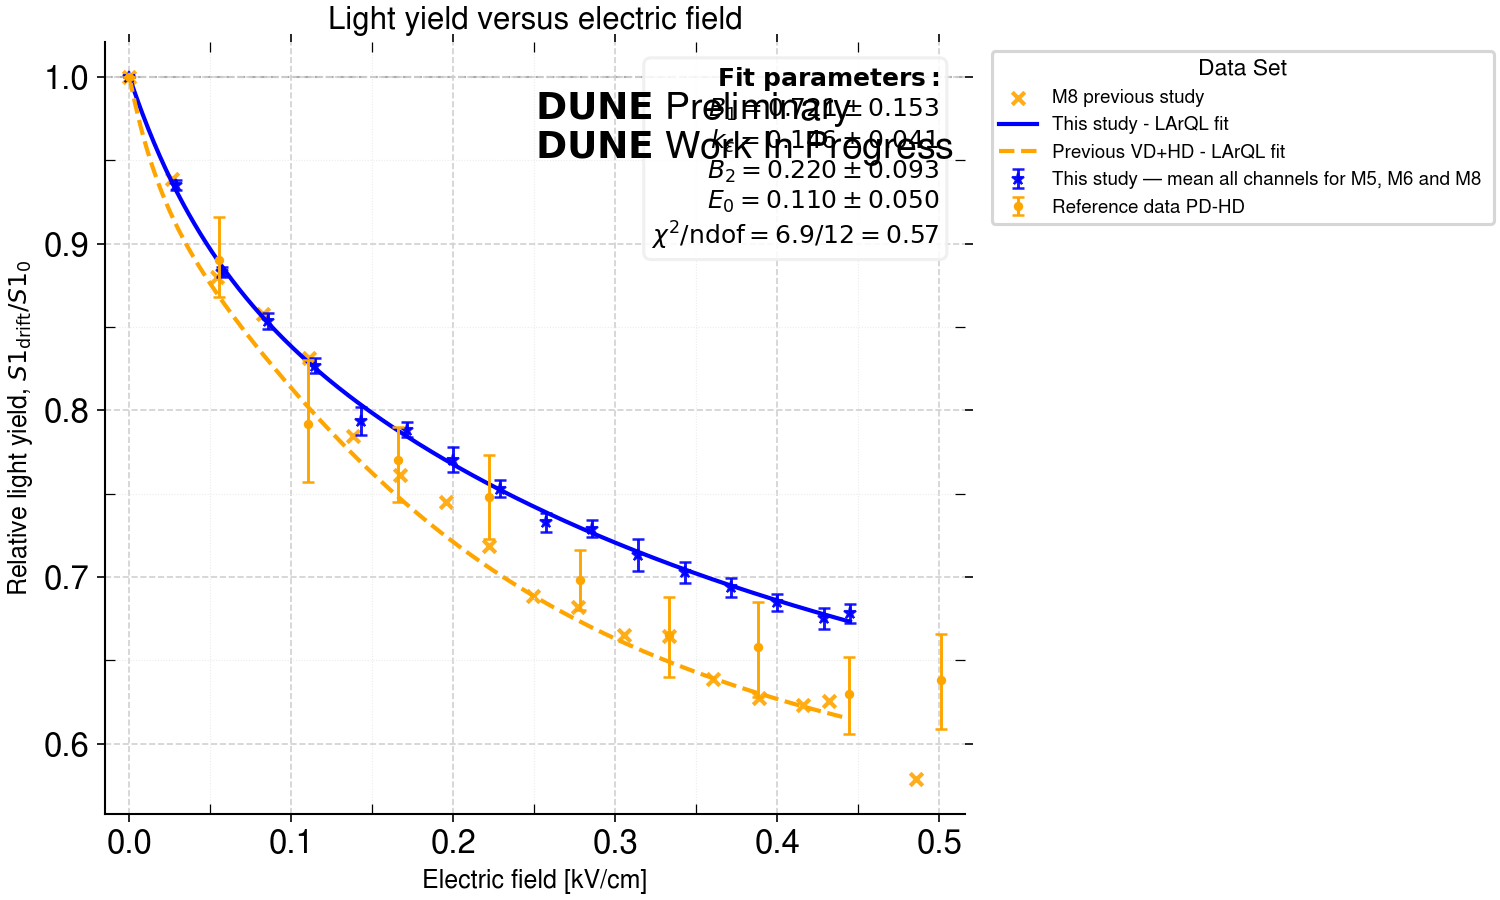
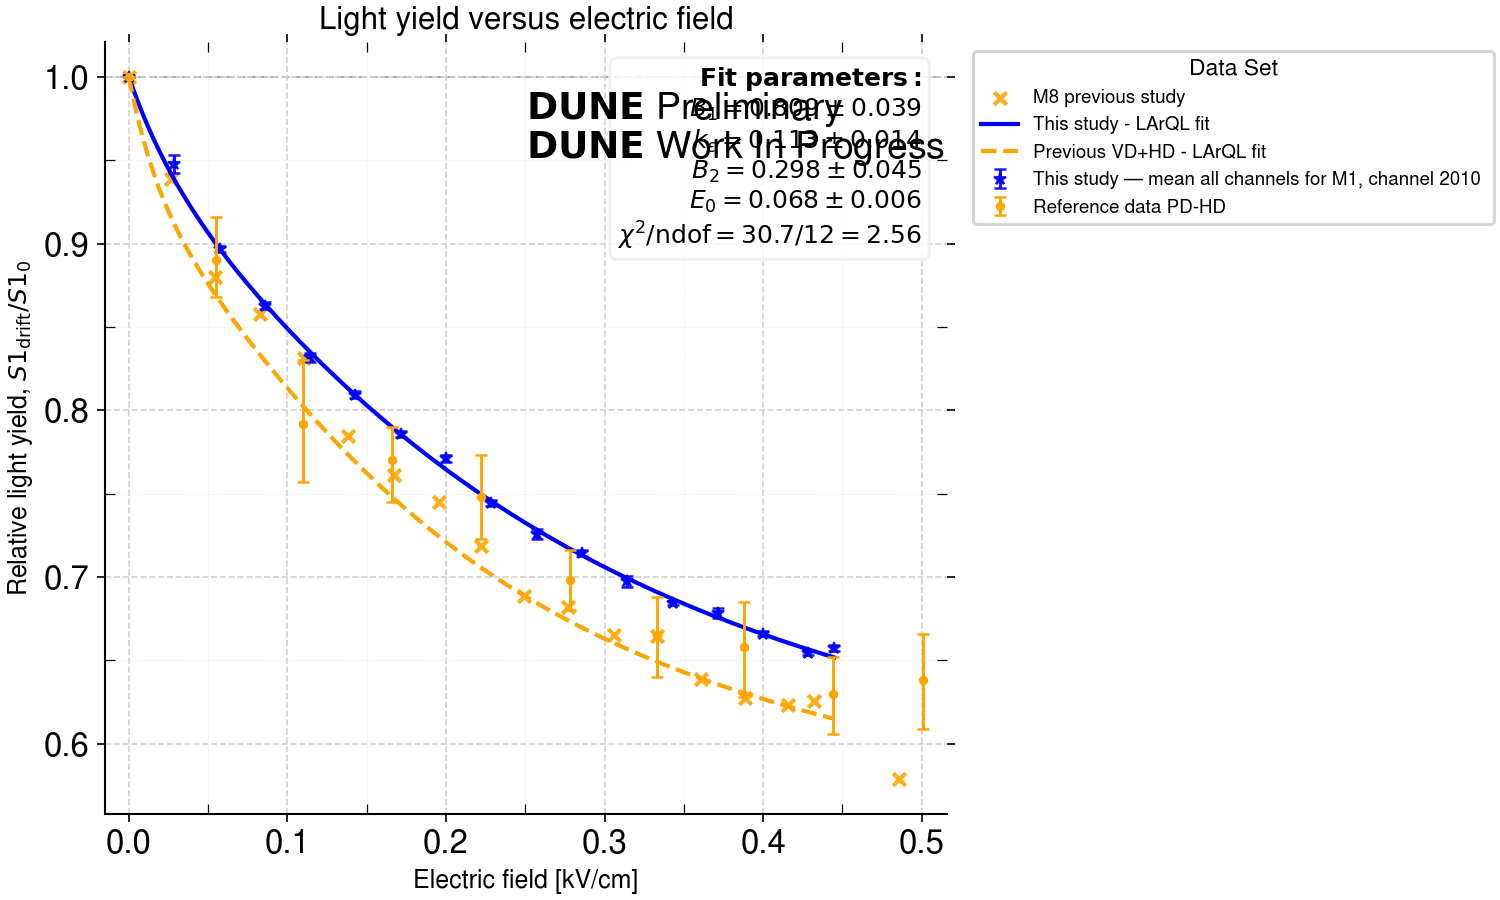
[EDIT] plot_wfs_coincidence allows now to choose how many peak candidates should be considered in the signal region, default remains 1.

diff --git a/coincidence/plot_wfs_coincidence.cpp b/coincidence/plot_wfs_coincidence.cpp
@@ -34,6 +34,7 @@ namespace fs = std::filesystem;
 namespace {
 
 constexpr double DEFAULT_MAX_AUXILIARY_AMPLITUDE = 500.0;
+constexpr std::size_t DEFAULT_MAX_PEAKS_SIGNAL_REGION = 1;
 constexpr double MAX_FULL_RANGE_AMPLITUDE = 9000.0;
 constexpr int MAX_WAVEFORM_DENSITY_Y_BINS = 2000;
 const std::array<std::string, 3> DEFAULT_RUNS{"039510", "039511", "039512"};
@@ -48,6 +49,7 @@ struct Options {
     fs::path csv_file;
     std::string csv_suffix = DEFAULT_CSV_SUFFIX;
     double max_auxiliary_amplitude = DEFAULT_MAX_AUXILIARY_AMPLITUDE;
+    std::size_t max_peaks_signal_region = DEFAULT_MAX_PEAKS_SIGNAL_REGION;
 };
 
 struct WaveformKey {
@@ -158,6 +160,8 @@ void printUsage(const char *program)
         << "  --csv-suffix SUFFIX          Selection CSV filename suffix\n"
         << "  --max-auxiliary-amplitude N  Absolute |ADC - baseline| limit in noise/"
         << "post-signal regions (default: 500)\n"
+        << "  --max-peaks-signal-region N  Maximum peak candidates allowed in the "
+        << "signal region (default: 1)\n"
         << "  -h, --help                    Show this help\n";
 }
 
@@ -176,13 +180,29 @@ Options parseOptions(int argc, char **argv, const fs::path &program_dir)
         if (argument == "--config" || argument == "--output-dir"
             || argument == "--csv"
             || argument == "--csv-suffix"
-            || argument == "--max-auxiliary-amplitude") {
+            || argument == "--max-auxiliary-amplitude"
+            || argument == "--max-peaks-signal-region") {
             if (++index >= argc) throw std::runtime_error("Missing value for " + argument);
             if (argument == "--config") options.config = argv[index];
             else if (argument == "--output-dir") options.output_dir = argv[index];
             else if (argument == "--csv") options.csv_file = argv[index];
             else if (argument == "--csv-suffix") options.csv_suffix = argv[index];
-            else options.max_auxiliary_amplitude = std::stod(argv[index]);
+            else if (argument == "--max-auxiliary-amplitude") {
+                options.max_auxiliary_amplitude = std::stod(argv[index]);
+            } else {
+                const std::string value = argv[index];
+                std::size_t parsed_characters = 0;
+                const unsigned long long parsed = value.empty() || value.front() == '-'
+                    ? 0
+                    : std::stoull(value, &parsed_characters);
+                if (parsed_characters != value.size() || parsed == 0
+                    || parsed > std::numeric_limits<std::size_t>::max()) {
+                    throw std::runtime_error(
+                        "Maximum signal-region peak count must be a positive integer"
+                    );
+                }
+                options.max_peaks_signal_region = static_cast<std::size_t>(parsed);
+            }
             continue;
         }
         if (!argument.empty() && argument.front() == '-') {
@@ -387,7 +407,8 @@ WaveformSelections loadWaveforms(
     TChain &chain,
     const std::vector<LocatedWaveform> &located,
     const WaveformAnalyzer &analyzer,
-    double max_auxiliary_amplitude
+    double max_auxiliary_amplitude,
+    std::size_t max_peaks_signal_region
 )
 {
     chain.ResetBranchAddresses();
@@ -429,7 +450,8 @@ WaveformSelections loadWaveforms(
         const PeakSearchResult peak = analyzer.findPeak(*adc, item.key.channel);
         const bool fails_primary_peak = peak.primary_outside_signal_region;
         const bool fails_additional_peak = peak.additional_outside_signal_region;
-        const bool fails_signal_peak_count = peak.signal_peak_count != 1;
+        const bool fails_signal_peak_count =
+            peak.signal_peak_count > max_peaks_signal_region;
         const bool fails_missing_primary_peak = !peak.found;
 
         rejected_noise += item.multiplicity * static_cast<std::size_t>(fails_noise);
@@ -471,7 +493,8 @@ WaveformSelections loadWaveforms(
         << rejected_primary_peak_outside_signal << '\n'
         << "  Primary peak inside with another peak outside signal region: "
         << rejected_additional_peak_outside_signal << '\n'
-        << "  Signal region does not contain exactly one peak candidate: "
+        << "  Signal region contains more than " << max_peaks_signal_region
+        << " peak candidate(s): "
         << rejected_signal_peak_count << '\n'
         << "  No primary peak found: " << rejected_missing_primary_peak << '\n';
     selections.cuts = {
@@ -499,6 +522,7 @@ void writeCutSummary(
     std::size_t selected_rows,
     std::size_t unique_located_waveforms,
     double max_auxiliary_amplitude,
+    std::size_t max_peaks_signal_region,
     const WaveformAnalyzer &analyzer,
     const CutStatistics &cuts,
     const RecordsByChannel &final_selection
@@ -529,7 +553,8 @@ void writeCutSummary(
            << MAX_FULL_RANGE_AMPLITUDE << " ADC\n"
            << "4. Primary peak must be inside the configured signal region\n"
            << "5. No significant additional peak may be outside the signal region\n"
-           << "6. The signal region must contain exactly one peak candidate\n"
+           << "6. The signal region may contain at most "
+           << max_peaks_signal_region << " peak candidate(s)\n"
            << "7. A primary peak must be found\n\n"
            << "Peak-finder configuration\n"
            << "-------------------------\n"
@@ -619,7 +644,10 @@ void writeCutSummary(
         "Significant additional peak outside signal region",
         cuts.rejected_additional_peak_outside_signal
     );
-    write_counts("Signal-region peak count != 1", cuts.rejected_signal_peak_count);
+    write_counts(
+        "Signal-region peak count > " + std::to_string(max_peaks_signal_region),
+        cuts.rejected_signal_peak_count
+    );
     write_counts("No primary peak found", cuts.rejected_missing_primary_peak);
     write_counts("All cuts combined", cuts.rejected_combined);
 
@@ -1004,7 +1032,11 @@ void processInputList(
     std::cout << "Located ROOT entries: " << located.size() << '\n';
     const WaveformAnalyzer analyzer(options.config.string());
     const auto selections = loadWaveforms(
-        *chain, located, analyzer, options.max_auxiliary_amplitude
+        *chain,
+        located,
+        analyzer,
+        options.max_auxiliary_amplitude,
+        options.max_peaks_signal_region
     );
     const std::string label = options.csv_file.empty()
         ? "run_" + run + "_"
@@ -1023,6 +1055,7 @@ void processInputList(
         selected_rows,
         located.size(),
         options.max_auxiliary_amplitude,
+        options.max_peaks_signal_region,
         analyzer,
         selections.cuts,
         selections.final_selection

diff --git a/analysis/fit_LY.py b/analysis/fit_LY.py
@@ -11,7 +11,7 @@ import time
 import dunestyle.matplotlib as dunestyle
 
 
-sample_label = '20260828_134009'
+sample_label = '20260829_094702'
 script_dir = Path(__file__).resolve().parent
 repo_dir = script_dir.parent
 path_templates = repo_dir / "filter/templates_large_pulses"
@@ -326,11 +326,11 @@ def calculate_study_mean_all(datasets):
 
 study_configs_datasets = [
     {
-        "label": "This study — mean all channels for M5, M6 and M8 ",
+        "label": "This study — mean all channels for M1, channel 2010 ",
         "datasets": [
             {
                 "csv_suffix": f"{sample_label}.csv",
-                "channels": {2060,2061,2050,2051},
+                "channels": {2080,2081},
             },
             #{
             #    "csv_suffix": (
